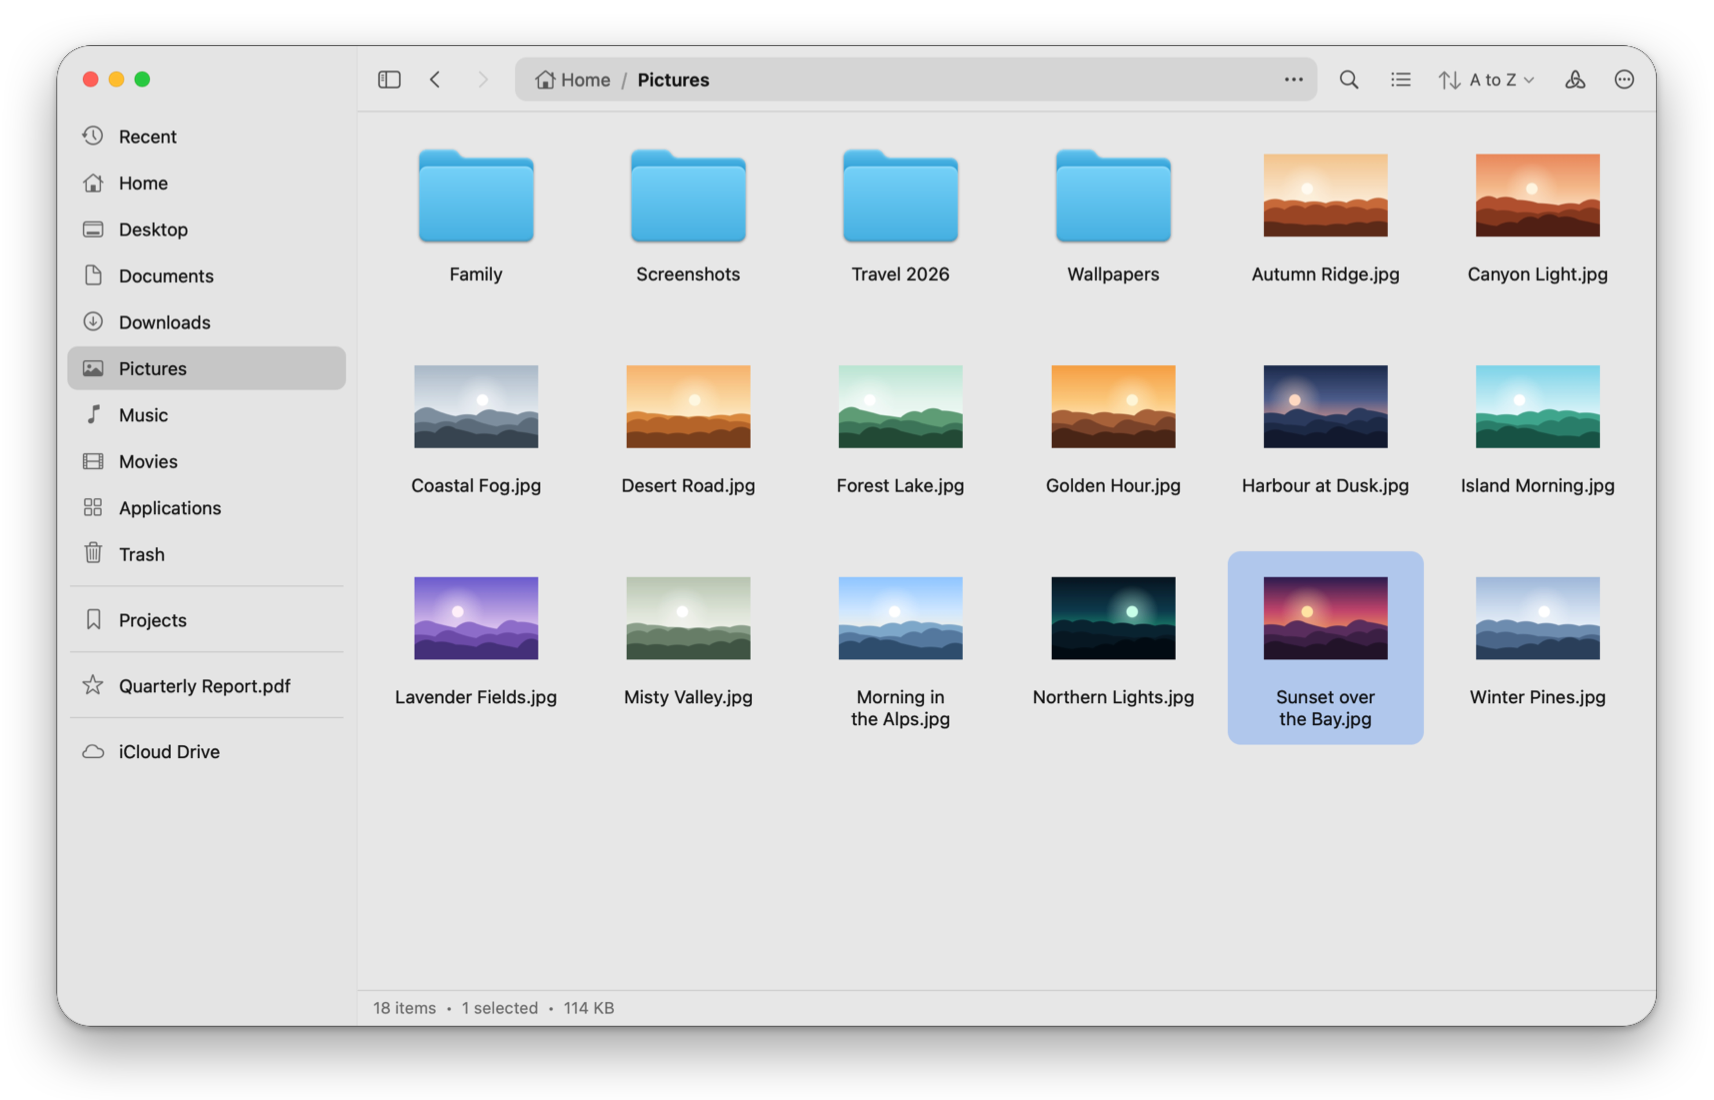
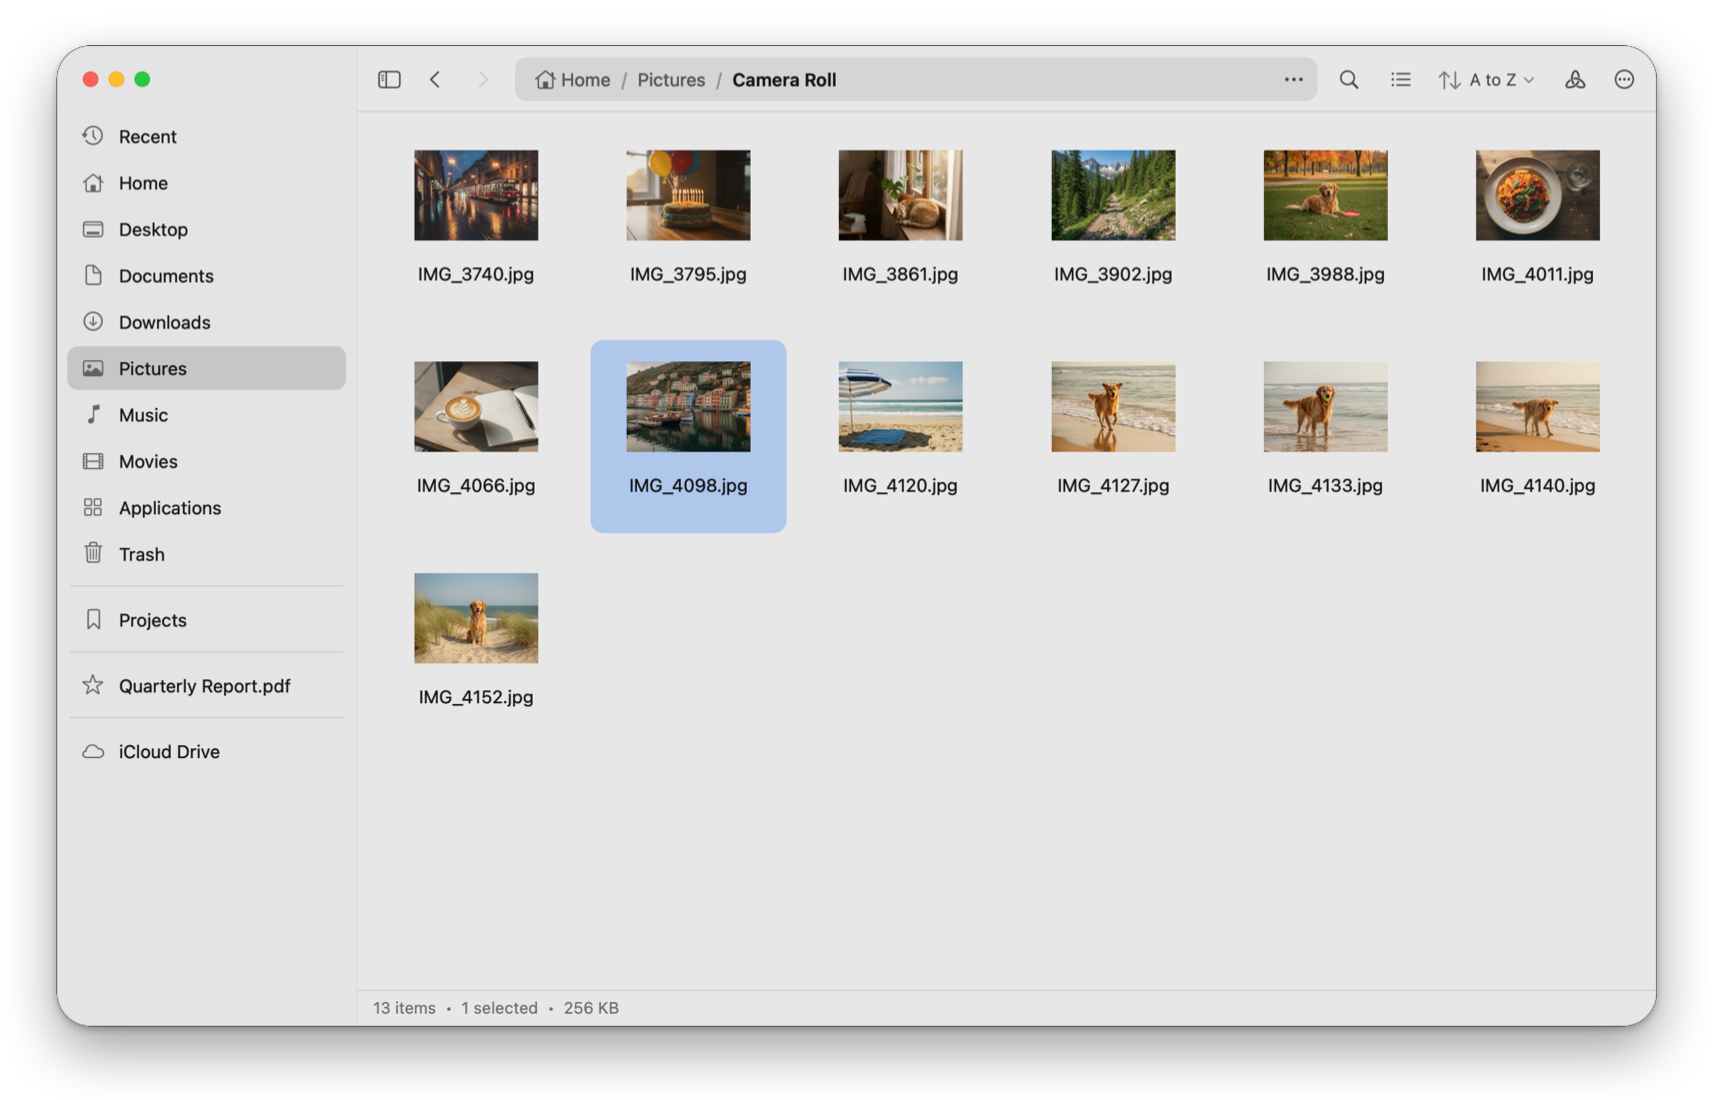
README: real-looking photos made with Gemini, AI search finding a dog at the beach, more path suggestions, and the main picture on the camera roll
Thirteen photos made with Gemini 2.5 Flash Image, at Huseyn's choice, form a camera roll in the demo home (scripts/readme/photos). The pictures were taken again from this build, and the rulings after run 8 are recorded.

diff --git a/scripts/readme/make_demo_home.swift b/scripts/readme/make_demo_home.swift
@@ -1,5 +1,6 @@
-// Builds a demo home folder for README screenshots: made-up documents, pictures and projects, all drawn here,
-// so no screenshot ever shows anything from a real Mac.
+// Builds a demo home folder for README screenshots: made-up documents, pictures and projects, drawn here, and a
+// camera roll of photos made for the README with Google's Gemini image model (scripts/readme/photos), so no
+// screenshot ever shows anything from a real Mac or anyone's own photos.
 // Usage: swift scripts/readme/make_demo_home.swift <home>
 import AppKit
 import CoreGraphics
@@ -166,6 +167,12 @@ let assets = folder("Documents/Projects/Lighthouse/Assets")
 writePNG(landscape(palettes[4].1, seed: 11, width: 1024, height: 1024), to: assets.appendingPathComponent("AppIcon.png"))
 _ = project
 _ = folder("Documents/Projects/Field Notes")
+// Folders beside Projects that start the same way, so typing ~/Documents/Pro suggests a few at once.
+_ = folder("Documents/Proposals")
+write("# Garden studio\n\nA proposal for the back garden.\n", to: "Documents/Proposals/Garden Studio.md")
+_ = folder("Documents/Prototypes/Paper Sketches")
+pdf(title: "Progress Report", subtitle: "October 2026 · Where things stand", accent: 0x64D2FF, pages: 2, chart: true,
+    to: documents.appendingPathComponent("Progress Report.pdf"))
 write("Day 1: clear skies.\n", to: "Documents/Projects/Field Notes/Day 1.txt")
 
 // MARK: Desktop and Downloads
@@ -274,6 +281,24 @@ pdf(title: "Lease Renewal", subtitle: "Flat 3B · From 1 January 2027", accent: 
 
 for name in ["Music", "Movies", "Library", "Templates"] { _ = folder(name) }
 
+// MARK: A camera roll, for AI search's picture
+
+// Photos named as a phone names them, so only what they show can find them: the same dog four times at the beach
+// and once in a park, among the other things a phone fills up with.
+let cameraRoll = folder("Pictures/Camera Roll")
+let photos = URL(fileURLWithPath: "scripts/readme/photos", isDirectory: true)
+let roll: [(String, String)] = [
+    ("dog-beach-run", "IMG_4127"), ("dog-beach-ball", "IMG_4133"), ("dog-beach-shake", "IMG_4140"),
+    ("dog-beach-dune", "IMG_4152"), ("dog-park", "IMG_3988"), ("beach-umbrella", "IMG_4120"),
+    ("cat-window", "IMG_3861"), ("mountain-trail", "IMG_3902"), ("pasta", "IMG_4011"), ("city-night", "IMG_3740"),
+    ("cake", "IMG_3795"), ("latte", "IMG_4066"), ("harbour", "IMG_4098"),
+]
+for (source, name) in roll {
+    let from = photos.appendingPathComponent("\(source).jpg")
+    guard manager.fileExists(atPath: from.path) else { print("missing photo \(from.path)"); exit(1) }
+    try? manager.copyItem(at: from, to: cameraRoll.appendingPathComponent("\(name).jpg"))
+}
+
 // MARK: iCloud Drive and the Trash
 
 // Stand-ins where a real Mac keeps them, so the sidebar shows iCloud Drive and the Trash has something in it.
@@ -309,6 +334,20 @@ let pinnedDates: [String: Date] = [
     "Desktop/IMG_2110.jpg": day(1, 13, 12),
     "Documents/Scans/IMG_2066.jpg": day(8, 11, 2),
     "Documents/Scans/IMG_2079.jpg": day(10, 17, 36),
+    // The camera roll, taken over the summer and fall in the order of their numbers.
+    "Pictures/Camera Roll/IMG_3740.jpg": day(96, 21, 14),
+    "Pictures/Camera Roll/IMG_3795.jpg": day(88, 19, 2),
+    "Pictures/Camera Roll/IMG_3861.jpg": day(74, 8, 37),
+    "Pictures/Camera Roll/IMG_3902.jpg": day(66, 11, 48),
+    "Pictures/Camera Roll/IMG_3988.jpg": day(52, 16, 5),
+    "Pictures/Camera Roll/IMG_4011.jpg": day(47, 20, 26),
+    "Pictures/Camera Roll/IMG_4066.jpg": day(39, 9, 12),
+    "Pictures/Camera Roll/IMG_4098.jpg": day(33, 17, 41),
+    "Pictures/Camera Roll/IMG_4120.jpg": day(29, 10, 3),
+    "Pictures/Camera Roll/IMG_4127.jpg": day(29, 10, 9),
+    "Pictures/Camera Roll/IMG_4133.jpg": day(29, 10, 17),
+    "Pictures/Camera Roll/IMG_4140.jpg": day(29, 10, 22),
+    "Pictures/Camera Roll/IMG_4152.jpg": day(29, 15, 50),
     // The fall's invoices, each dated in step with its name, for AI search's picture.
     "Documents/Invoices/Invoice November.pdf": day(2, 10, 15),
     "Documents/Invoices/Invoice October.pdf": day(25, 14, 30),

diff --git a/docs/handoff/OWNER_RULINGS.md b/docs/handoff/OWNER_RULINGS.md
@@ -339,6 +339,20 @@ What was built and checked is in [`MAC_RUN_8.md`](MAC_RUN_8.md).
 | A fresh install | "Reinstall / clear helm cache again" | 2026-11-18 | Done as the fresh install of run 7, with Huseyn's earlier "Everything" and "Restore Finder first": the details are under "Left installed" in [`MAC_RUN_8.md`](MAC_RUN_8.md#left-installed). |
 | The README | "I want to rewrite my README as a landing page of a product, almost. The copy has to be much more centric around the benefits of this and the things that I would prioritize. It would definitely be just calling it agentic at first, not talking about pullbacks or security in the very first sentence", with "a picture that is clearly visible of how it looks, probably starting with AI search, not the AI sidebar", "the URL navigation" next, the sidebar "somewhere along the lines", and "no bloat". | 2026-11-18 | "The agentic file manager for your Mac." and what Helm does for you, then AI search with its picture, Go anywhere by typing, Tidy a folder with one sentence (the plan and its Undo), and the file manager with its sidebar; privacy and install in a few lines each. The details moved to `docs/AI_MODE.md`, `docs/PRIVACY.md`, `docs/INSTALL.md`, `docs/SHORTCUTS.md` and `CONTRIBUTING.md`. |
 
+## After run 8 (2026-11-18 and 19)
+
+Built on `handoff/mac-fixups` after run 8's merge, and merged into main at Huseyn's word on 2026-11-19: "all to main". The build installed in /Applications that night has these changes.
+
+### Rulings by Huseyn
+
+| Topic | Huseyn's words | Date | What was built |
+|---|---|---|---|
+| The README's AI search picture | "give a better image example for the readme of AI search, e.g. finding an image and the images being more realistic"; asked where the photos should come from, he chose "Generate with Gemini (Recommended)" and "My dog at the beach (Recommended)" | 2026-11-18 | Thirteen photos made with Gemini 2.5 Flash Image (`scripts/readme/photos`, noted in `docs/brand/README.md`) form a camera roll named IMG_3740 to IMG_4152 in the demo home. The picture is AI search for "photos of my dog at the beach", Photo and Read contents on: the four beach photos of the dog, found by what they show, among a park photo of the same dog and everyday photos. The hero shows the same camera roll. |
+| The README's path picture | "also show more folder options here in the image so it's easier" | 2026-11-18 | `~/Documents/Pro` now suggests Projects, Proposals and Prototypes, then Product Roadmap.pdf and Progress Report.pdf. |
+| The sort popover | "also fix this UI, weird placement and overall top style" | 2026-11-18 | Every row starts on one edge: the sort names lost the empty check column that pushed them past "Sort by", the hint and the rows below. The sort in use rests on an accent fill with its order at the end, and "Sort by" is a small section heading. A smoke check now measures that the popover hangs from the sort button's lower edge, mid-screen and with the window at the top of the screen; it did on this Mac. |
+| AI search's order | "Also thoughts on whether AI search should use a more BFS search style? Not sure if this is a good use for this but I find that it goes deep in directories and ideally it should present things closer to parent directory first? And also rank by relevance in this case too to the original query. Explore optimization here and implement overall. See what best AI search uses and how to build it" | 2026-11-18 | The walk was already breadth-first, but its order was thrown away when results were scored, and nothing measured distance from the folder searched. Now, as VS Code's and fzf's scorers do, nearness counts below the quality of a name match: 250 for a file right in the folder searched (the home folder for the whole Mac), 50 less a folder down. The words the person typed count in the name score, not only the model's. Every candidate is scored, none dropped by date first. Spotlight's hits past 2,000 drop the deepest. The files the model looks at come nearest first. The ranking model is told to put the nearer of two equal fits first. |
+| A kind with nothing typed | "Also pressing these should auto sort even if nothing is written in search" | 2026-11-19 | Choosing a kind with an empty field lists every file of that kind in the place searched, a folder at a time and newest first at each depth, with no model asked. Any goes back to the folder with the search still open. |
+
 ## Ruled but not built yet
 
 The app works without these, but each ruling above is still owed. Row-level status is in [`P0_P1_STATUS.md`](P0_P1_STATUS.md).

diff --git a/README.md b/README.md
@@ -15,12 +15,12 @@ Describe a file and Helm finds it. Say how a folder should look and Helm sorts i
 
 <picture>
   <source media="(prefers-color-scheme: dark)" srcset="docs/images/ai-search-dark.png">
-  <img src="docs/images/ai-search-light.png" alt="AI search from Home for a receipt from somewhere I ate, with Photo chosen in the kind row and Read contents on: two receipt photos, IMG_2110.jpg from a deli and IMG_2041.jpg from a café, and the status bar reading 2 matches, Mentions “receipt”, Photos, Looked at 34">
+  <img src="docs/images/ai-search-light.png" alt="AI search from Home for photos of my dog at the beach, with Photo chosen in the kind row and Read contents on: four photos of a golden retriever on a beach, named only IMG_4127.jpg to IMG_4152.jpg, and the status bar reading 4 matches, Mentions “dog”, Photos, Looked at 47">
 </picture>
 
 ## Find any file by describing it
 
-Search the way you remember things: "a receipt from somewhere I ate", "the lease that renews in January", "a video of the storm". Helm turns your words into searches, runs them on your Mac, and shows what matched and why.
+Search the way you remember things: "photos of my dog at the beach", "a receipt from somewhere I ate", "the lease that renews in January", "a video of the storm". Helm turns your words into searches, runs them on your Mac, and shows what matched and why.
 
 - **It looks inside.** Turn on **Read contents** and Helm reads documents and looks at photos and video frames, so a file turns up by what it shows, whatever it's called.
 - **One kind at a time.** Photo, Video, Document, Folder, Code, Audio or Archive, one click under the search field.
@@ -32,7 +32,7 @@ Press **⌘L** and the path bar becomes a prompt. Type a path as you would after
 
 <picture>
   <source media="(prefers-color-scheme: dark)" srcset="docs/images/path-dark.png">
-  <img src="docs/images/path-light.png" alt="The top of the window over Home: the path bar is a prompt reading ~/Documents/Pro, with the rest of Projects in grey after the caret, and under it the suggestions Projects, chosen, and Product Roadmap.pdf">
+  <img src="docs/images/path-light.png" alt="The top of the window over Home: the path bar is a prompt reading ~/Documents/Pro, with the rest of Projects in grey after the caret, and under it the suggestions, folders first: Projects, chosen, Proposals and Prototypes, then Product Roadmap.pdf and Progress Report.pdf">
 </picture>
 
 | Type or press | What happens |
@@ -59,7 +59,7 @@ Everything works without AI, and AI mode is off until you turn it on.
 
 <picture>
   <source media="(prefers-color-scheme: dark)" srcset="docs/images/hero-dark.png">
-  <img src="docs/images/hero-light.png" alt="Helm showing a Pictures folder in the grid, with landscape thumbnails. The sidebar on the left holds Recent, Home and the usual folders, the Trash, a Projects bookmark, a starred Quarterly Report.pdf and iCloud Drive, and the header bar runs along the top">
+  <img src="docs/images/hero-light.png" alt="Helm showing a Camera Roll folder in the grid, with photo thumbnails of a dog, a cat, a harbour, food and city streets. The sidebar on the left holds Recent, Home and the usual folders, the Trash, a Projects bookmark, a starred Quarterly Report.pdf and iCloud Drive, and the header bar runs along the top">
 </picture>
 
 - **A sidebar that's yours.** Recent, Starred, your bookmarks, disks and cloud drives. Drag rows into your order and hide the ones you don't use.

diff --git a/docs/brand/README.md b/docs/brand/README.md
@@ -8,4 +8,6 @@
 
 The app icon is not changed (Huseyn, 2026-11-13), and no variant of it was made for AI mode.
 
-`bash scripts/readme/make_readme_images.sh` draws the mark and the banner again, through `scripts/readme/make_brand.swift`, from `App/AppIcon.icns`. Nothing comes from an image service.
+`bash scripts/readme/make_readme_images.sh` draws the mark and the banner again, through `scripts/readme/make_brand.swift`, from `App/AppIcon.icns`. Nothing there comes from an image service.
+
+The photos in `scripts/readme/photos`, the camera roll that the README's AI search picture searches, were made for the README with Google's Gemini image model (Gemini 2.5 Flash Image) on 2026-11-18, at Huseyn's choice: a golden retriever four times at the beach and once in a park, and eight everyday photos. They show no real person, place or pet, and carry Google's SynthID watermark.
